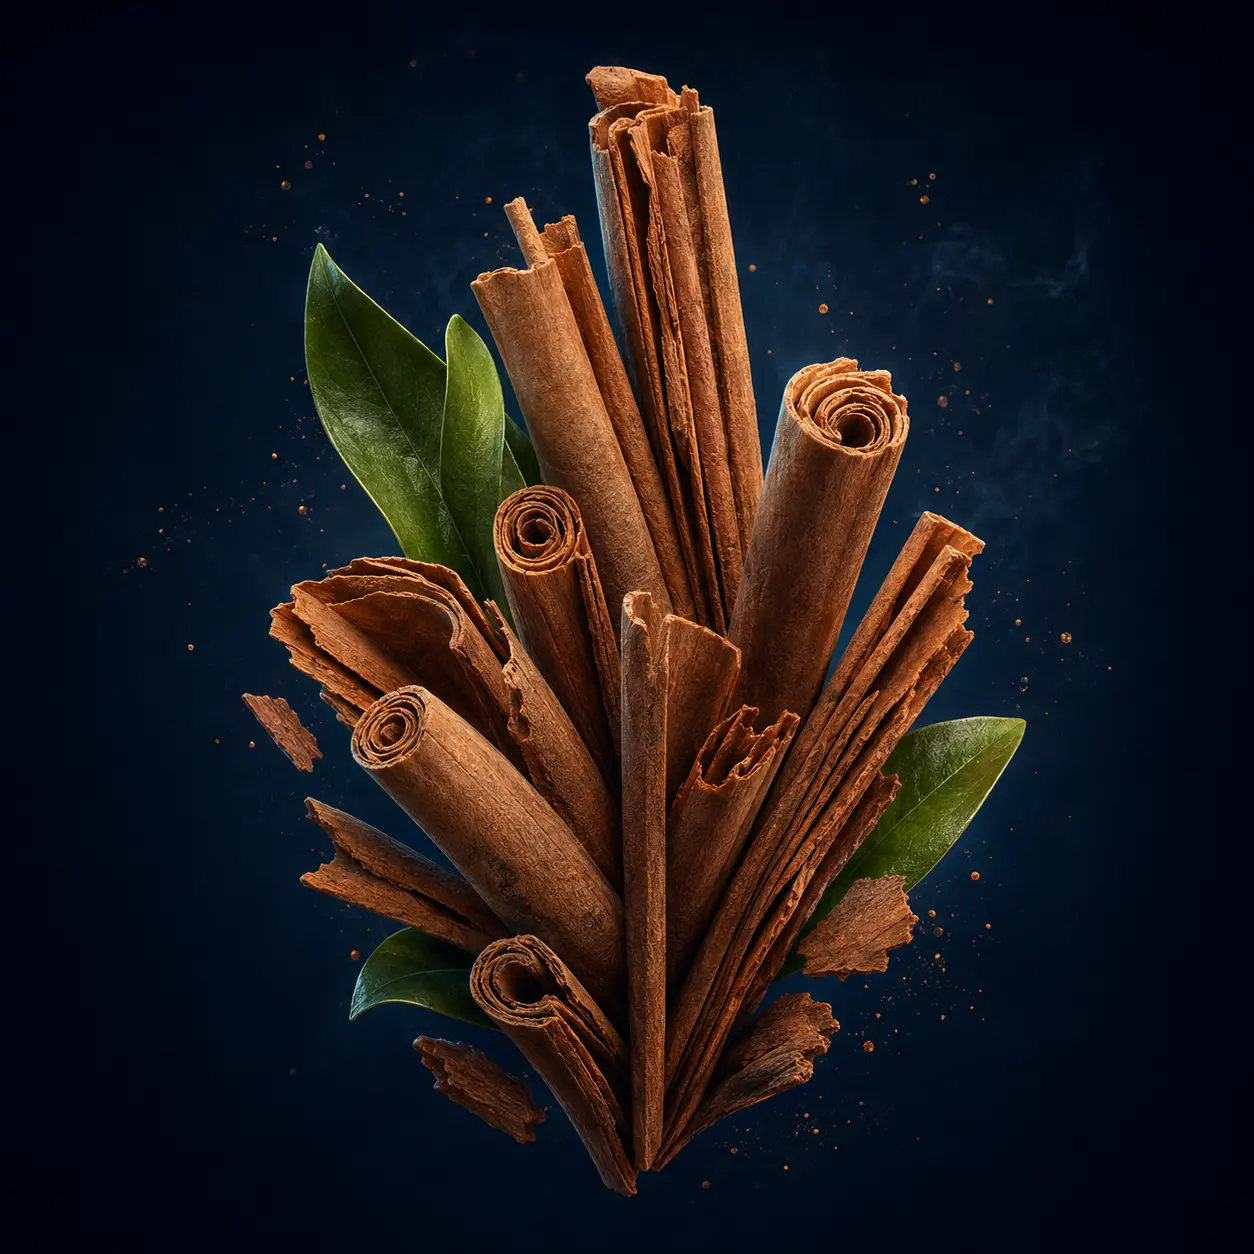
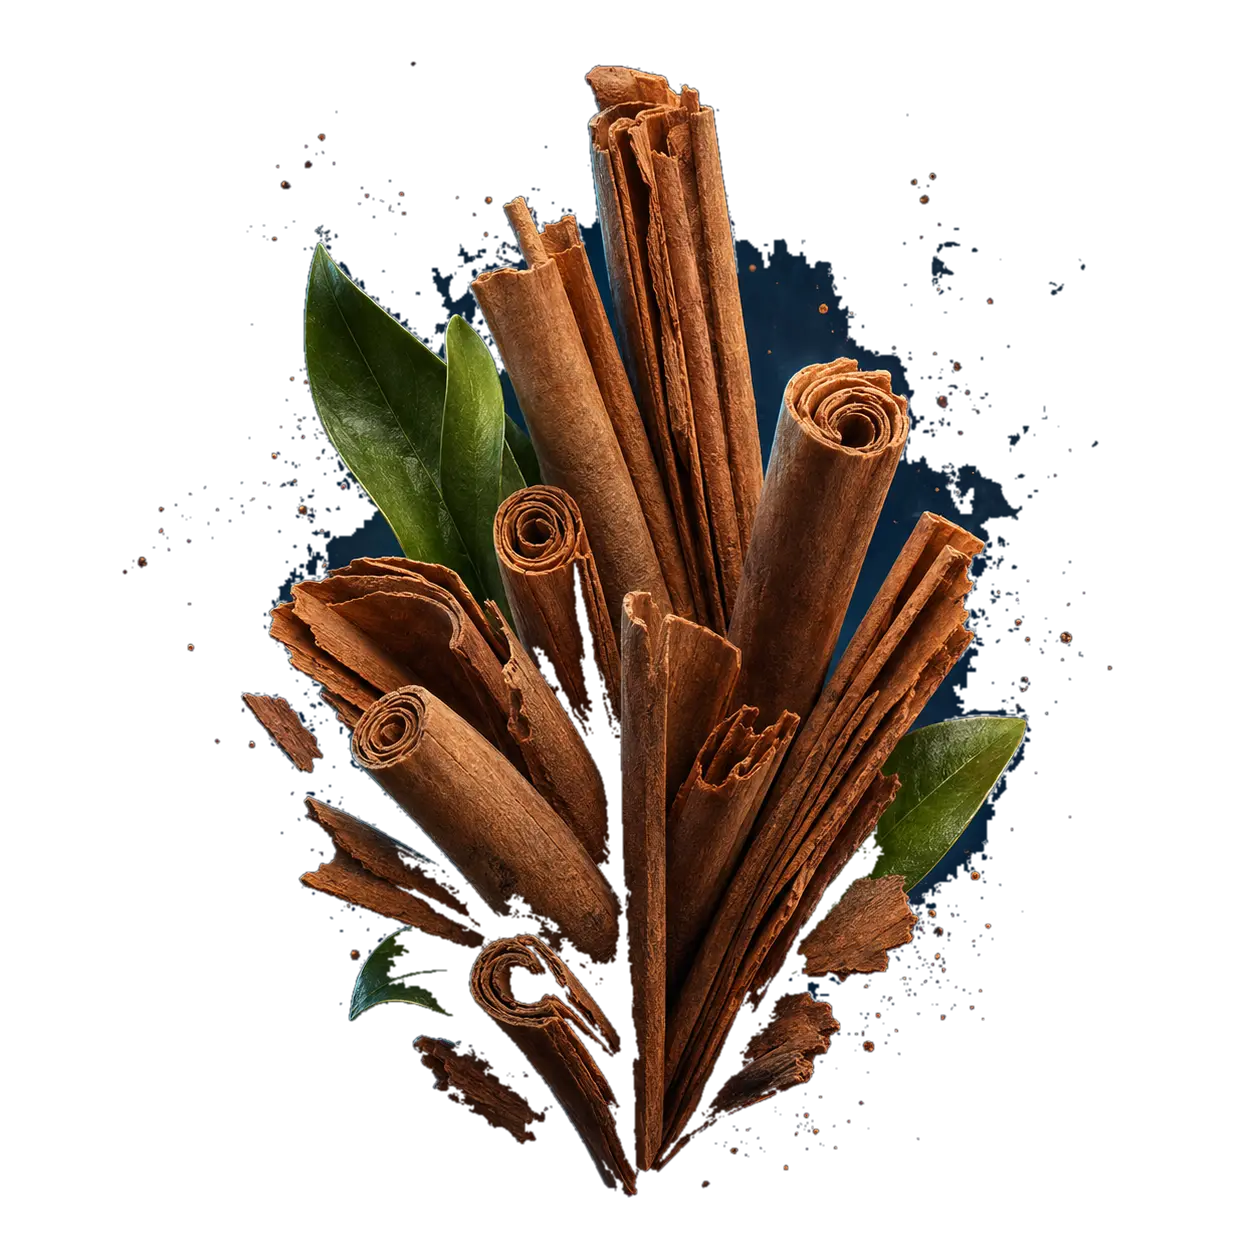
fix(images): remove black backgrounds and convert all product and ingredient images to clean transparent assets

diff --git a/neotonics-skin-gut-report/index.html b/neotonics-skin-gut-report/index.html
@@ -26,12 +26,12 @@
 <meta content="Neotonics Review 2026: Skin Cell Turnover &amp; Gut Microbiome Breakthrough" property="og:title"/>
 <meta content="Clinical investigation into Neotonics probiotic gummies: can fixing the gut microbiome reverse skin aging and fine lines from within?" property="og:description"/>
 <meta content="https://dailyhealthreviewus.com/neotonics-skin-gut-report" property="og:url"/>
-<meta content="https://dailyhealthreviewus.com/Imagens_Oficiais/neotonics_bottle.jpg" property="og:image"/>
+<meta content="https://dailyhealthreviewus.com/Imagens_Oficiais/neotonics_bottle.png" property="og:image"/>
 <!-- Twitter Card -->
 <meta content="summary_large_image" name="twitter:card"/>
 <meta content="Neotonics Review 2026: The 500M Probiotic Skin Miracle?" name="twitter:title"/>
 <meta content="Can probiotic gummies replace expensive serums and Botox by targeting skin cell turnover? Full clinical review." name="twitter:description"/>
-<meta content="https://dailyhealthreviewus.com/Imagens_Oficiais/neotonics_bottle.jpg" name="twitter:image"/>
+<meta content="https://dailyhealthreviewus.com/Imagens_Oficiais/neotonics_bottle.png" name="twitter:image"/>
 <link href="https://dailyhealthreviewus.com/neotonics-skin-gut-report" rel="canonical"/>
 <!-- Schema.org Review Structured Data -->
 <script type="application/ld+json">
@@ -39,7 +39,7 @@
   "@context": "https://schema.org",
   "@type": "Product",
   "name": "Neotonics Skin & Gut Essential Probiotics",
-  "image": "https://dailyhealthreviewus.com/Imagens_Oficiais/neotonics_bottle.jpg",
+  "image": "https://dailyhealthreviewus.com/Imagens_Oficiais/neotonics_bottle.png",
   "description": "Probiotic gummy formulation combining 500 million CFUs of Bacillus Coagulans, Babchi, Inulin, Dandelion, and Lion's Mane to support cellular turnover, youthful skin glow, and digestive balance.",
   "brand": {
     "@type": "Brand",
@@ -215,7 +215,7 @@
 </div>
 <!-- Product Image Showcase -->
 <div class="my-8 text-center bg-white p-6 rounded-xl border border-slate-200 shadow-sm">
-<img alt="Neotonics Skin and Gut Essential Probiotics Gummies Bottle" class="mx-auto max-w-full sm:max-w-md h-auto rounded-lg shadow-sm" loading="lazy" src="/Imagens_Oficiais/neotonics_bottle.jpg"/>
+<img alt="Neotonics Skin and Gut Essential Probiotics Gummies Bottle" class="mx-auto max-w-full sm:max-w-md h-auto rounded-lg shadow-sm" loading="lazy" src="/Imagens_Oficiais/neotonics_bottle.png"/>
 <p class="text-xs text-slate-500 mt-3 italic">Authentic Neotonics Skin &amp; Gut Essential Probiotics (30 daily gummies per bottle).</p>
 </div>
 <!-- Section 1: The Root Cause of Skin Aging -->

diff --git a/index.html b/index.html
@@ -1357,7 +1357,7 @@
         title: "Neotonics™ Gut & Skin",
         category: "longevity",
         superlative: "✨ Skin Cell Turnover Gummies",
-        image: "/Imagens_Oficiais/neotonics_bottle.jpg",
+        image: "/Imagens_Oficiais/neotonics_bottle.png",
         rating: 4.7,
         reviews: "1,890+",
         price: "$49/bottle",
